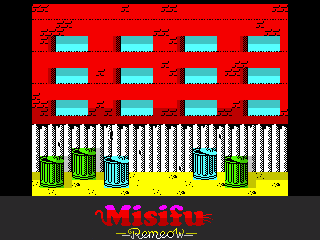
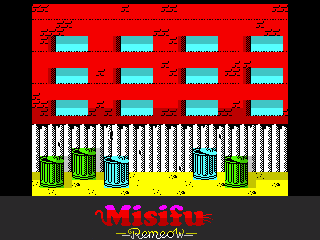
feat: opening windows

diff --git a/src/misifu.c b/src/misifu.c
@@ -2,7 +2,9 @@
 #include <stdio.h>
 #include "allegro/color.h"
 #include "allegro/gfx.h"
+#include "allegro/inline/draw.inl"
 #include "allegro/midi.h"
+#include "allegro/platform/astdint.h"
 #include "enem.h"
 #include "game.h"
 #include "misifu.h"
@@ -15,6 +17,7 @@ struct clothes {
     unsigned int row2_x;
     BITMAP *sprite1;
     BITMAP *sprite2;
+    uint8_t frames_moving;
 };
 struct bincat {
     uint8_t in_bin;
@@ -49,7 +52,14 @@ struct prota misifu;
 struct dog dog;
 struct clothes clothes;
 struct bincat bincat;
+struct coord {
+    int x;
+    int y;
+};
 PALETTE misifu_palette;
+uint8_t random_value;
+uint8_t opened_window_frames;
+uint8_t opened_window;
 
 
 BITMAP * load_misifu_data() {
@@ -84,12 +94,15 @@ BITMAP * load_misifu_data() {
     
     clothes.row1_x = 225;
     clothes.row2_x = 50;
+    clothes.frames_moving = NONE;
     misifu.offset = OFF_BORED;
     dog.offset = OFF_DOG_WALK;
     dog.direction = DOG_LEFT;
     misifu.x = 65;
     misifu.y = FLOOR_Y;
     dog.appears = FALSE;
+    opened_window_frames = NONE;
+    opened_window = NONE;
         
     return back;
 }
@@ -114,7 +127,6 @@ inline unsigned char is_in_bin() {
 
 inline void check_bincat() {
     // checks if bincat should appear and where
-    int random_value = rand();
     if (bincat.appears == NONE && misifu.in_bin != NONE) {
         bincat.in_bin = random_value % 12;
         // less probable
@@ -323,6 +335,25 @@ void misifu_output() {
 
 }
 
+inline void move_clothes() {
+    clothes.row2_x += 3;
+    clothes.row1_x -=3;
+
+    if (clothes.row2_x > 225) {
+        clothes.row2_x = LEVEL_MIN;
+    }
+    if (clothes.row1_x <= LEVEL_MIN) {
+        clothes.row1_x = 225;
+    }
+
+    if((misifu.draw_additional == CAT_IN_ROPE1 || misifu.draw_additional == CAT_IN_ROPE3)
+                && misifu.x < LEVEL_MAX) {
+        misifu.x += 3;
+    } else if(misifu.draw_additional == CAT_IN_ROPE2 && misifu.x > 1) {
+        misifu.x -=3;
+    }
+}
+
 inline void paint_clothes() {
     //clothes.sprite1
     blit(bg, screen, clothes.row1_x, 50, clothes.row1_x, 50, 64, 20);
@@ -330,22 +361,70 @@ inline void paint_clothes() {
     blit(bg, screen, misifu.x - 2, misifu.y, misifu.x -2, misifu.y, 32, 40);
     blit(bg, screen, dog.x, DOG_Y, dog.x, DOG_Y, 24, 16);
 
-    if((counter & 1) == 0) {
-        ++clothes.row2_x;
-        if (clothes.row2_x > 225) {
-            clothes.row2_x = LEVEL_MIN;
+    if ((counter & 1) == 0) {
+        if(random_value > 235 && clothes.frames_moving == NONE) {
+            clothes.frames_moving = 20;        
         }
-
-        --clothes.row1_x;
-        if (clothes.row1_x <= LEVEL_MIN) {
-            clothes.row1_x = 225;
+        if (clothes.frames_moving != NONE) {
+            --clothes.frames_moving;
+            move_clothes();
         }
     }
    
 }
 
-inline void anim_windows() {
+
+
+struct coord get_window_coords() {
+    struct coord coordinate;
+    coordinate.x = 56 + (opened_window % 4) * 65;
+    coordinate.y = 36 + 32 * ((int) (opened_window / 4)) + 15;
+    return coordinate;
+}
+
+void open_window(uint8_t height, char open_window) {
+    struct coord window_coords = get_window_coords();
     
+    if (open_window == TRUE) {
+        rectfill(screen, window_coords.x, window_coords.y, window_coords.x + 31, window_coords.y - height, makecol(41, 40, 41));
+        rectfill(bg, window_coords.x, window_coords.y, window_coords.x + 31, window_coords.y - height, makecol(41, 40, 41));
+    } else {
+        rectfill(screen, window_coords.x, window_coords.y, window_coords.x + 31, window_coords.y - 8, makecol(86, 255, 255));
+        rectfill(bg, window_coords.x, window_coords.y, window_coords.x + 31, window_coords.y - 8, makecol(86, 255, 255));
+
+        rectfill(screen, window_coords.x, window_coords.y - 8, window_coords.x + 31, window_coords.y - 15, makecol(64, 197, 197));
+        rectfill(bg, window_coords.x, window_coords.y - 8, window_coords.x + 31, window_coords.y - 15, makecol(64, 197, 197));
+    }
+}
+
+inline void anim_windows() {
+    if (opened_window_frames == NONE) {
+        if (random_value > 125) {
+            opened_window = random_value - 125;
+        } else {
+            opened_window = random_value;
+        }
+        if (opened_window < 12) { 
+            // 0 to 11
+            opened_window_frames = 255;
+        }
+    } else {
+        if ((counter & 1) == 0) {
+            --opened_window_frames;
+        
+            if(opened_window_frames == 254) {
+                // open half of the window
+                struct coord window_coords = get_window_coords();
+                // todo do also for bg
+                open_window(8, TRUE);                
+            } else if (opened_window_frames == 200) {
+                open_window(15, TRUE);
+            }
+            if (opened_window_frames == 0) {
+                open_window(15, FALSE);
+            }
+        }
+    }
 }
 
 inline void dog_checks() {
@@ -401,8 +480,6 @@ inline void dog_checks() {
     }
 
     if (dog.appears != TRUE && (counter & 1) == 0) {
-        uint8_t random_value = rand() % 255;
-
         if (random_value > 253) {
             dog.appears = TRUE;
             dog.x = LEVEL_MAX;
@@ -423,17 +500,12 @@ inline void alley_loop() {
         paint_clothes(0);*/
         // now move cat
         if(misifu.state == CAT_IN_ROPE) {
-            if((misifu.draw_additional == CAT_IN_ROPE1 || misifu.draw_additional == CAT_IN_ROPE3)
+            /*if((misifu.draw_additional == CAT_IN_ROPE1 || misifu.draw_additional == CAT_IN_ROPE3)
                 && misifu.x < LEVEL_MAX) {
-                 ++misifu.x;
+                 misifu.x += 3;
             } else if(misifu.draw_additional == CAT_IN_ROPE2 && misifu.x > 1) {
-                --misifu.x;
-                /*if(misifu.x <= LEVEL_MIN) {
-                    misifu.state = FALLING_FLOOR;
-                    misifu.draw_additional = NONE;
-                    ++misifu.y;
-                }*/
-            }
+                misifu.x -=3;
+            }*/
             if(misifu.x >= LEVEL_MAX || misifu.x <= LEVEL_MIN) {
                 misifu.state = FALLING_FLOOR;
                 misifu.draw_additional = NONE;
@@ -442,7 +514,6 @@ inline void alley_loop() {
         }
     }
     
-    //anim_windows();
     check_bincat();
     dog_checks();
     
@@ -460,8 +531,10 @@ inline void alley_loop() {
 }
 
 void misifu_process() {
+    random_value = rand() % 255;
     check_keys();
     alley_loop();
+    anim_windows();
     misifu_output();
     check_fsm();
 
